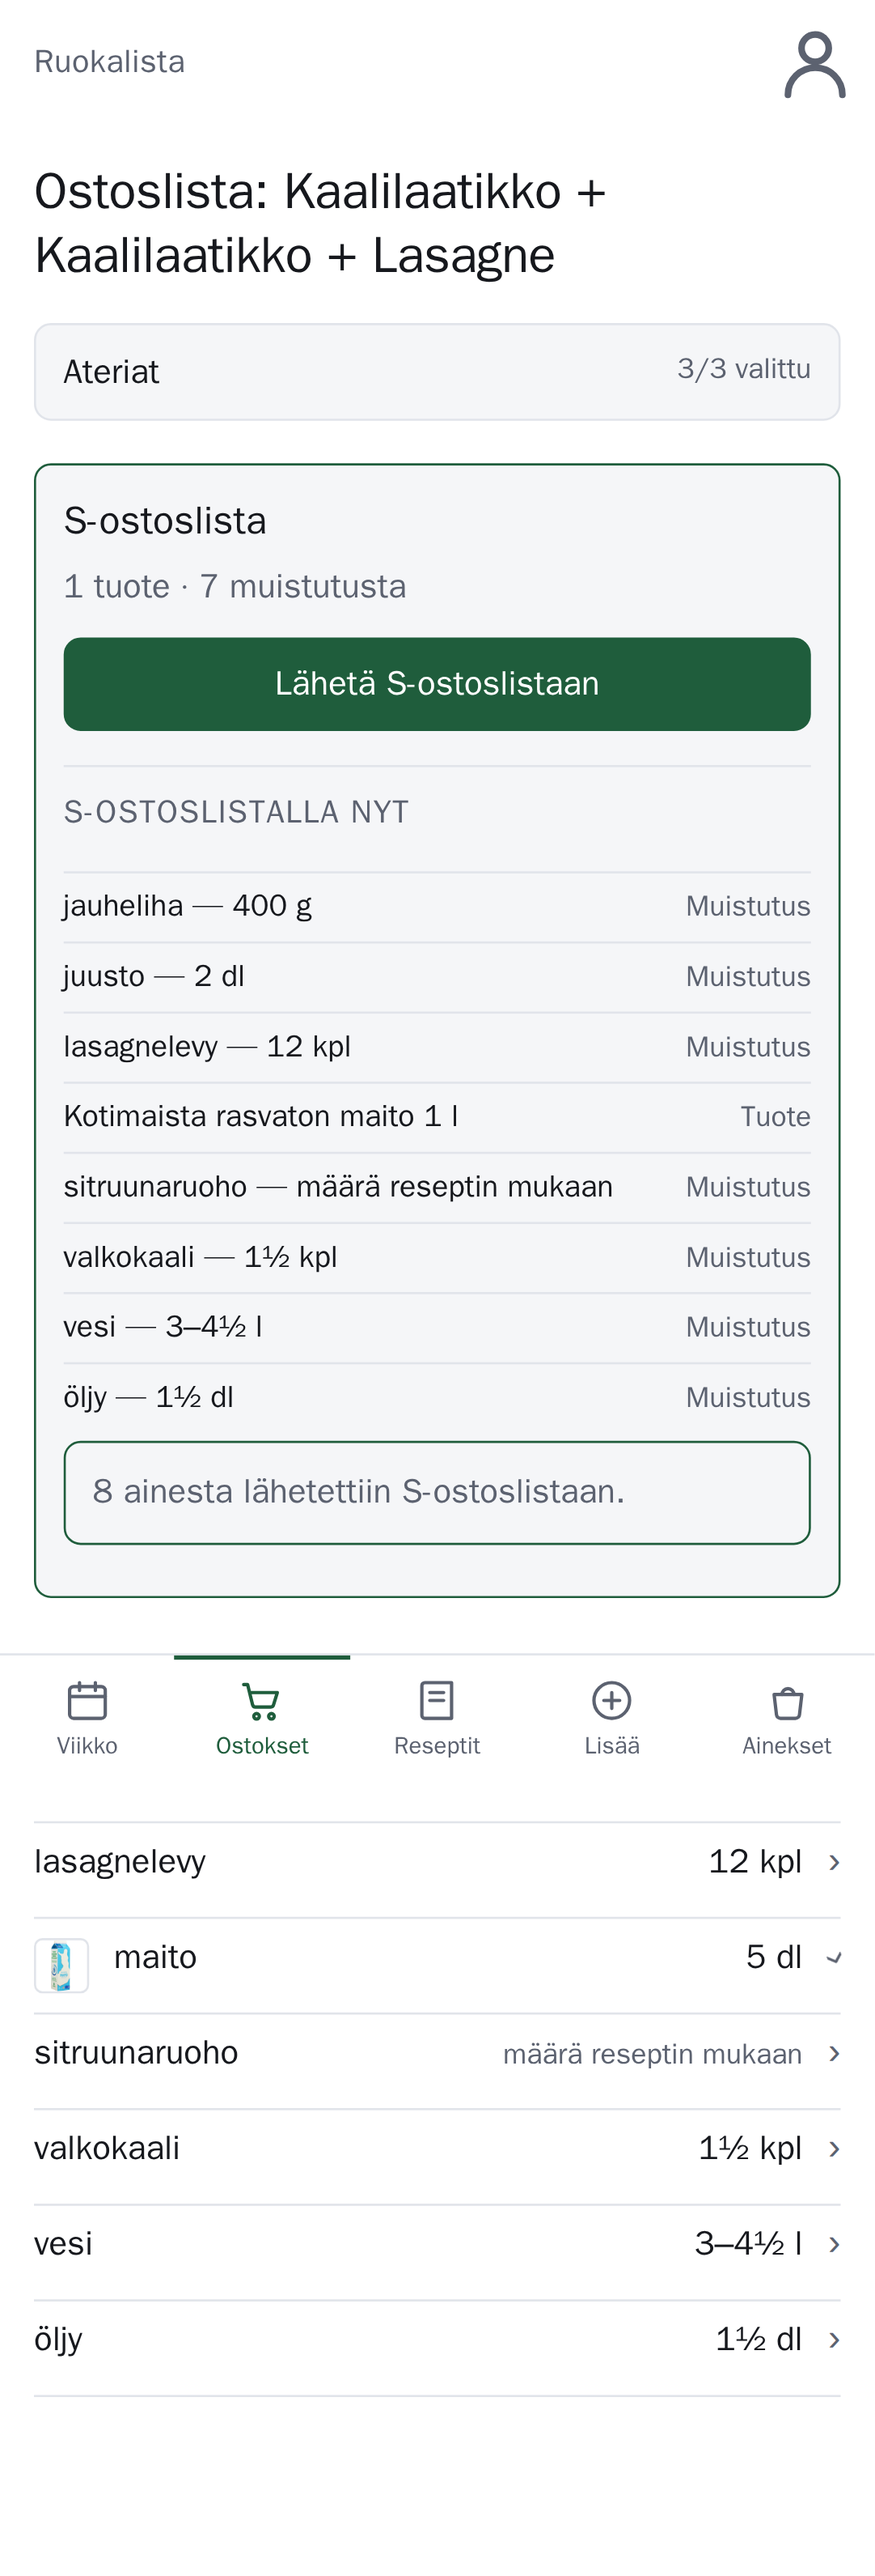
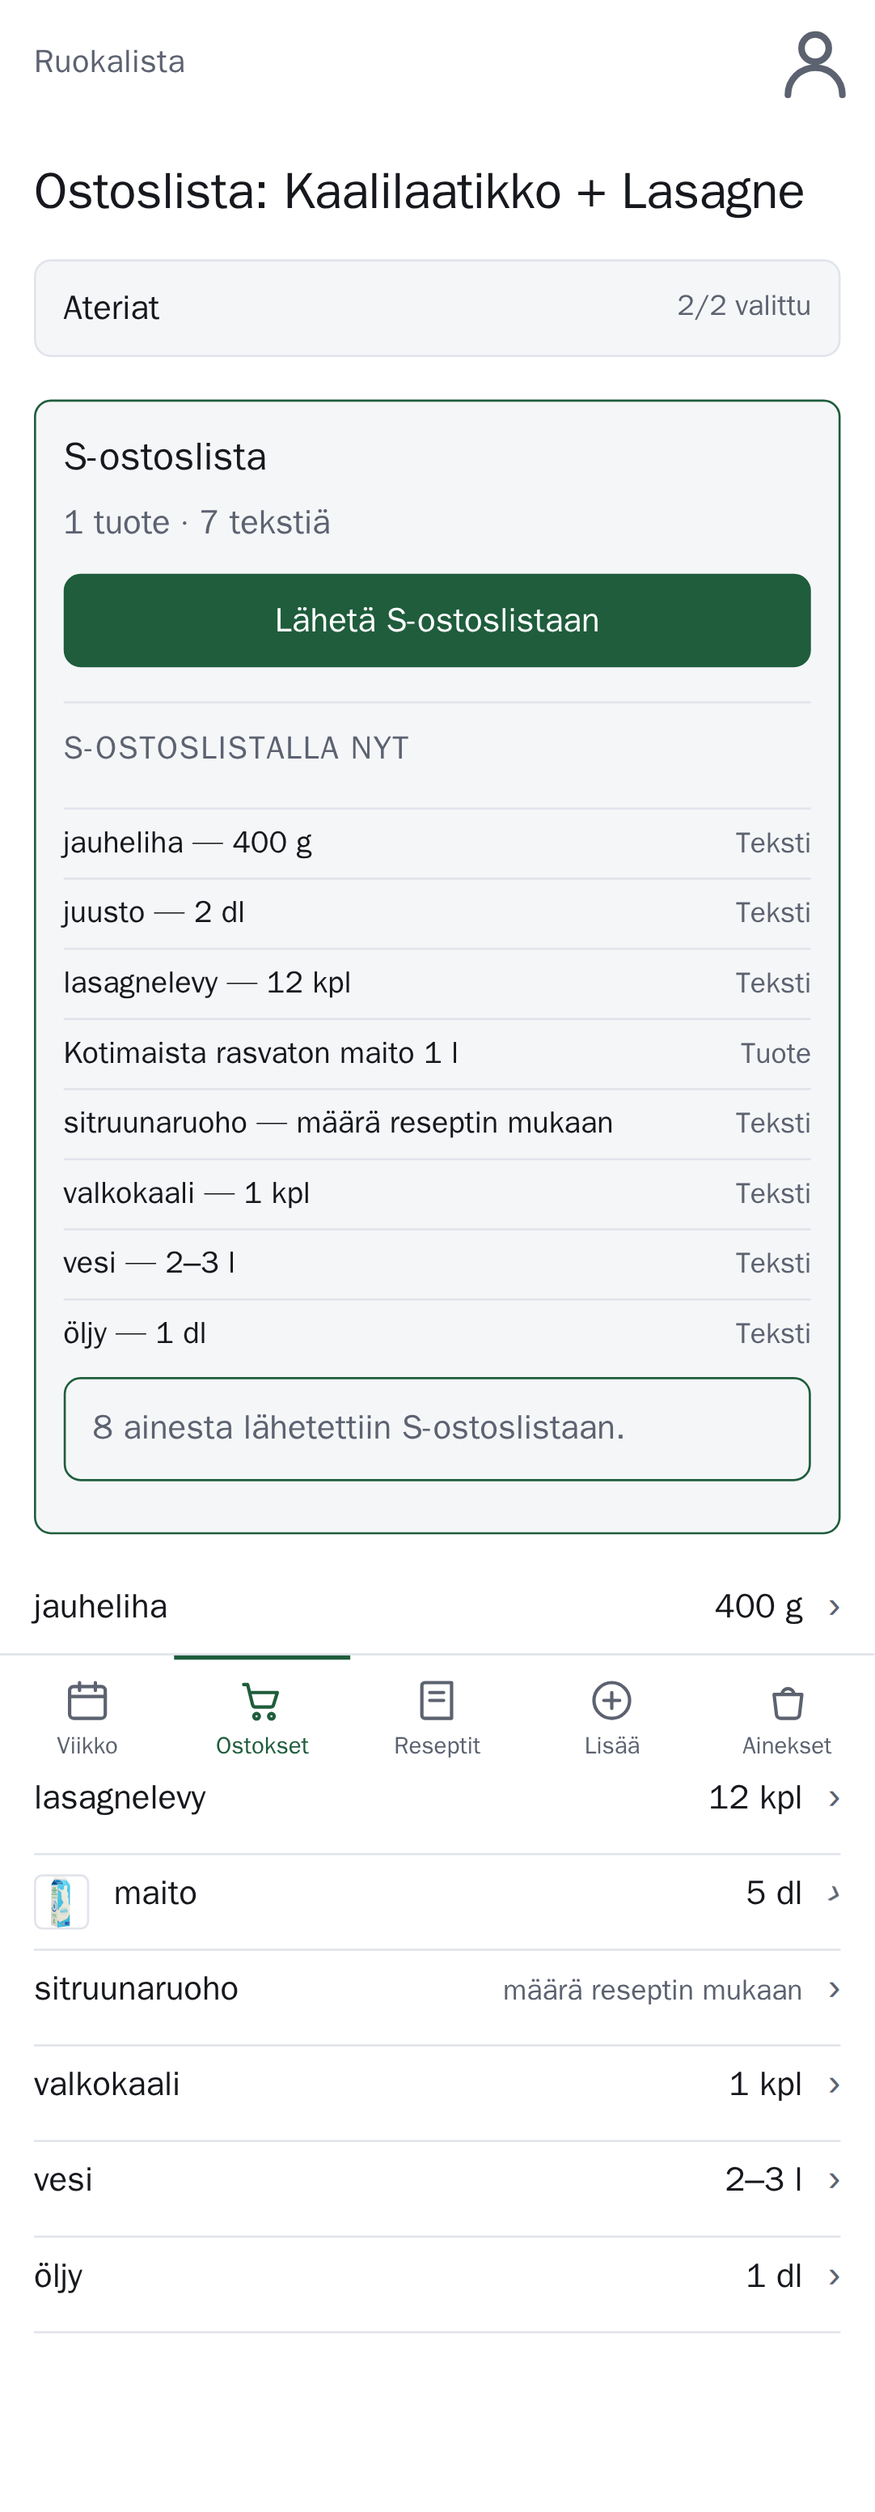
Rename S-list note labels to text

diff --git a/src/shopping-screens.ts b/src/shopping-screens.ts
@@ -676,7 +676,7 @@ function externalSendPanel(
       : html`<p class="s-send-counts" data-tuotteet="${mapped}" data-muistutukset="${notes}">
             ${mapped} ${mapped === 1 ? "tuote" : "tuotetta"}${notes === 0
               ? ""
-              : ` · ${notes} ${notes === 1 ? "muistutus" : "muistutusta"}`}
+              : ` · ${notes} ${notes === 1 ? "teksti" : "tekstiä"}`}
           </p>
           <form method="post" action="/ostoslista/laheta" class="s-send-form">
             ${selectionFields(selectedIds)}
@@ -725,7 +725,7 @@ function externalProductBlock(
       ${mapped
         ? productSummary(item)
         : html`<div class="s-shopping-product-copy">
-            <strong>Muistutus</strong>
+            <strong>Teksti</strong>
             <span class="meta">Lähetetään tekstinä: ${item.name} — ${item.total}</span>
           </div>`}
     </div>
@@ -1344,7 +1344,7 @@ const SHOPPING_ISLAND = `
     line.setAttribute('data-muistutukset', String(notes));
     var text = products + (products === 1 ? ' tuote' : ' tuotetta');
     if (notes > 0) {
-      text += ' · ' + notes + (notes === 1 ? ' muistutus' : ' muistutusta');
+      text += ' · ' + notes + (notes === 1 ? ' teksti' : ' tekstiä');
     }
     clear(line);
     line.appendChild(document.createTextNode(text));
@@ -1486,7 +1486,7 @@ const SHOPPING_ISLAND = `
         entry.className = items[index].ean ? 's-current-product' : 's-current-note';
         entry.appendChild(el('span', 's-current-name', items[index].name));
         entry.appendChild(
-          el('span', 'meta', items[index].ean ? 'Tuote' : 'Muistutus')
+          el('span', 'meta', items[index].ean ? 'Tuote' : 'Teksti')
         );
         list.appendChild(entry);
       }

diff --git a/tests/shopping.spec.ts b/tests/shopping.spec.ts
@@ -270,14 +270,22 @@ test("the chosen product's picture is on the row, and the row is no taller", asy
 
   const milk = row(page, "maito");
   const water = row(page, "vesi");
+  await expect(milk.locator(".s-shopping-product.is-note strong")).toHaveText(
+    "Teksti",
+  );
+  await expect(page.locator(".s-send-counts")).toContainText(/\d+ teksti(?:ä)?/);
   const before = await milk.locator("summary").boundingBox();
   await chooseProduct(page, "maito", "Kotimaista rasvaton maito");
 
   // The count above the send button keeps up with a mapping made in place.
-  await expect(page.locator(".s-send-counts")).toContainText("1 tuote ·");
+  await expect(page.locator(".s-send-counts")).toContainText(
+    /1 tuote · \d+ teksti(?:ä)?/,
+  );
 
   await page.reload();
-  await expect(page.locator(".s-send-counts")).toContainText("1 tuote ·");
+  await expect(page.locator(".s-send-counts")).toContainText(
+    /1 tuote · \d+ teksti(?:ä)?/,
+  );
   const thumb = row(page, "maito").locator(".shopping-thumb img");
   await expect(thumb).toBeVisible();
   await expect(thumb).toHaveAttribute("src", /cdn\.s-cloud\.fi.*6415712506032/);
@@ -654,7 +662,7 @@ test("the shopping screen shows what the S list already holds, and refreshes it"
     items.filter({ hasText: "Kotimaista rasvaton maito" }),
   ).toContainText("Tuote");
   await expect(items.filter({ hasText: "vesi — 2–3 l" })).toContainText(
-    "Muistutus",
+    "Teksti",
   );
 });
 
